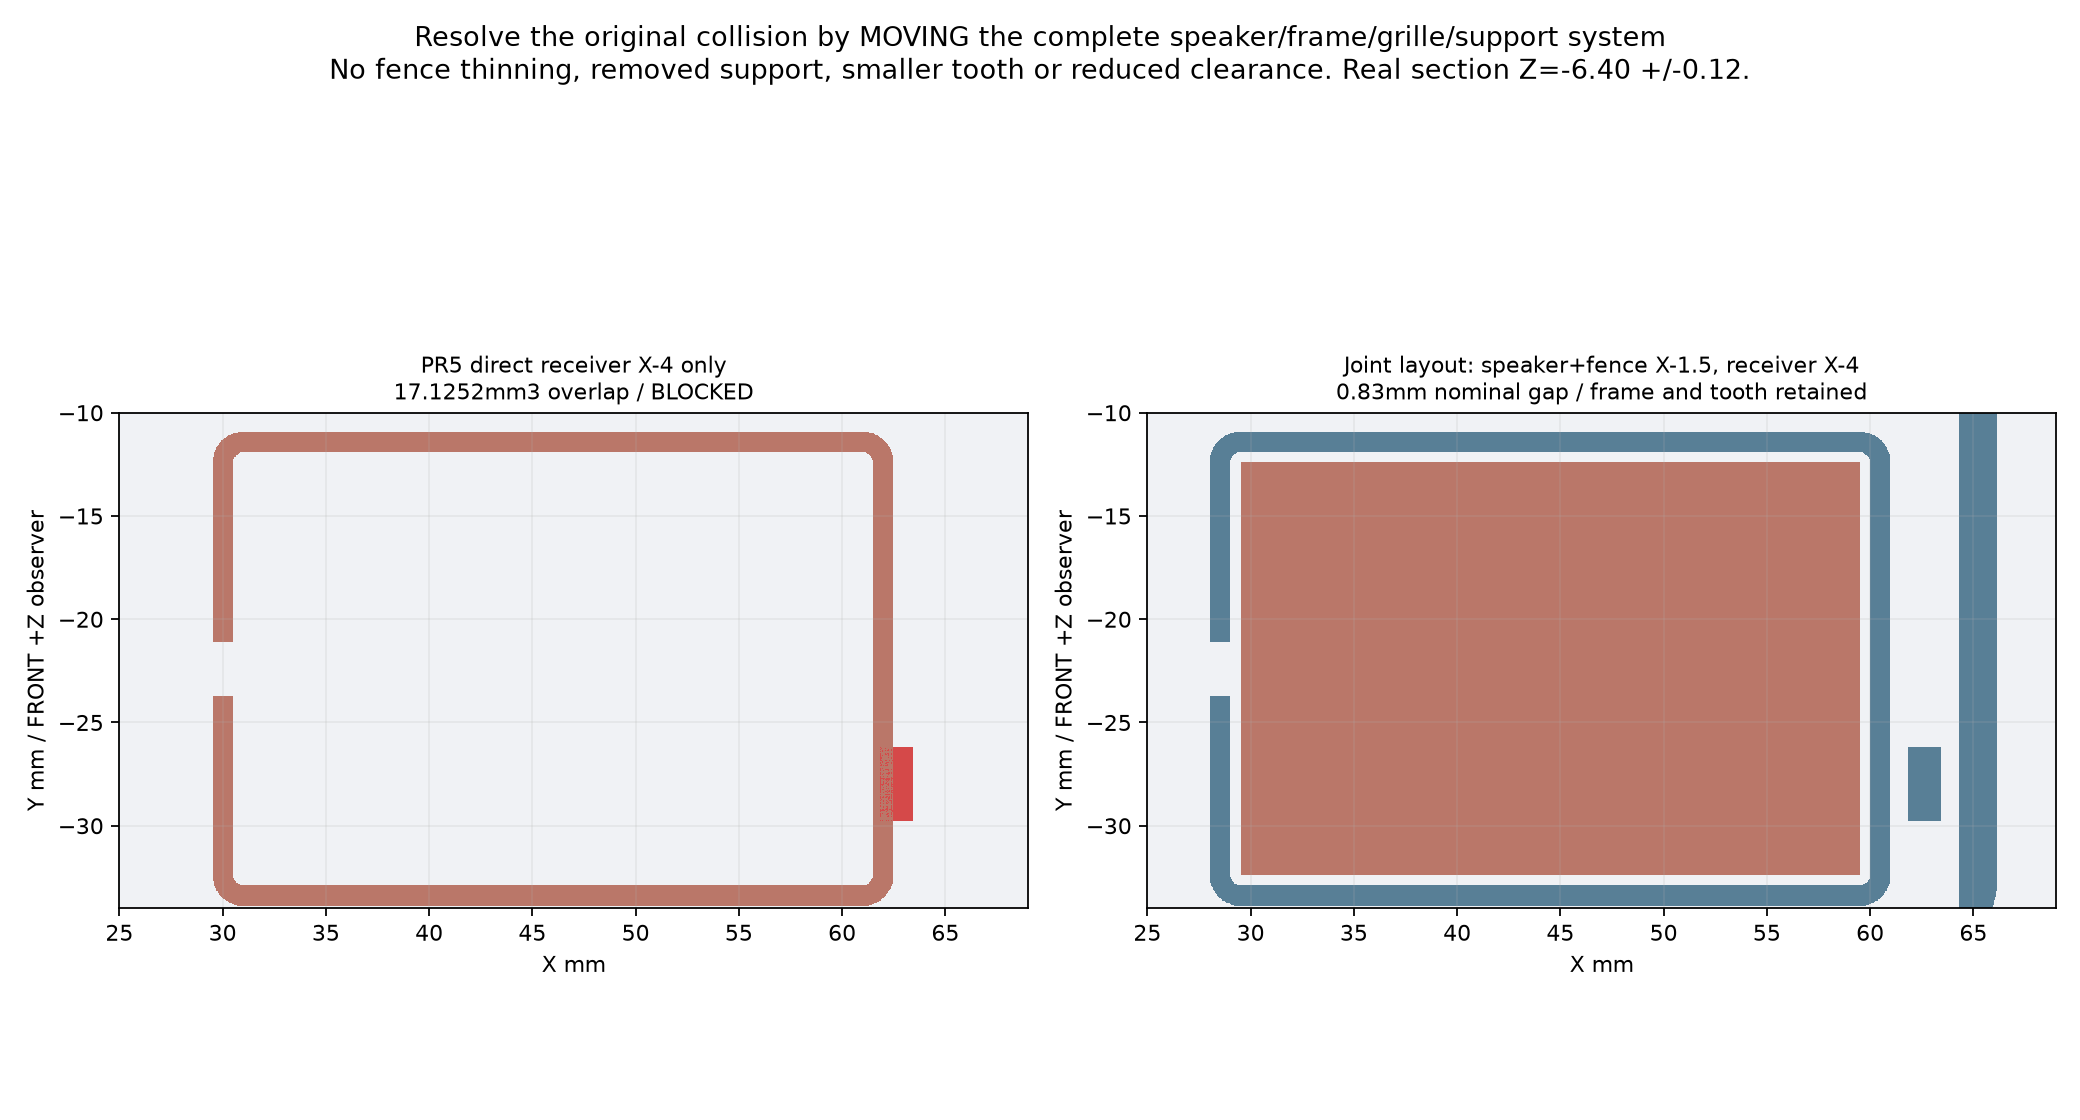
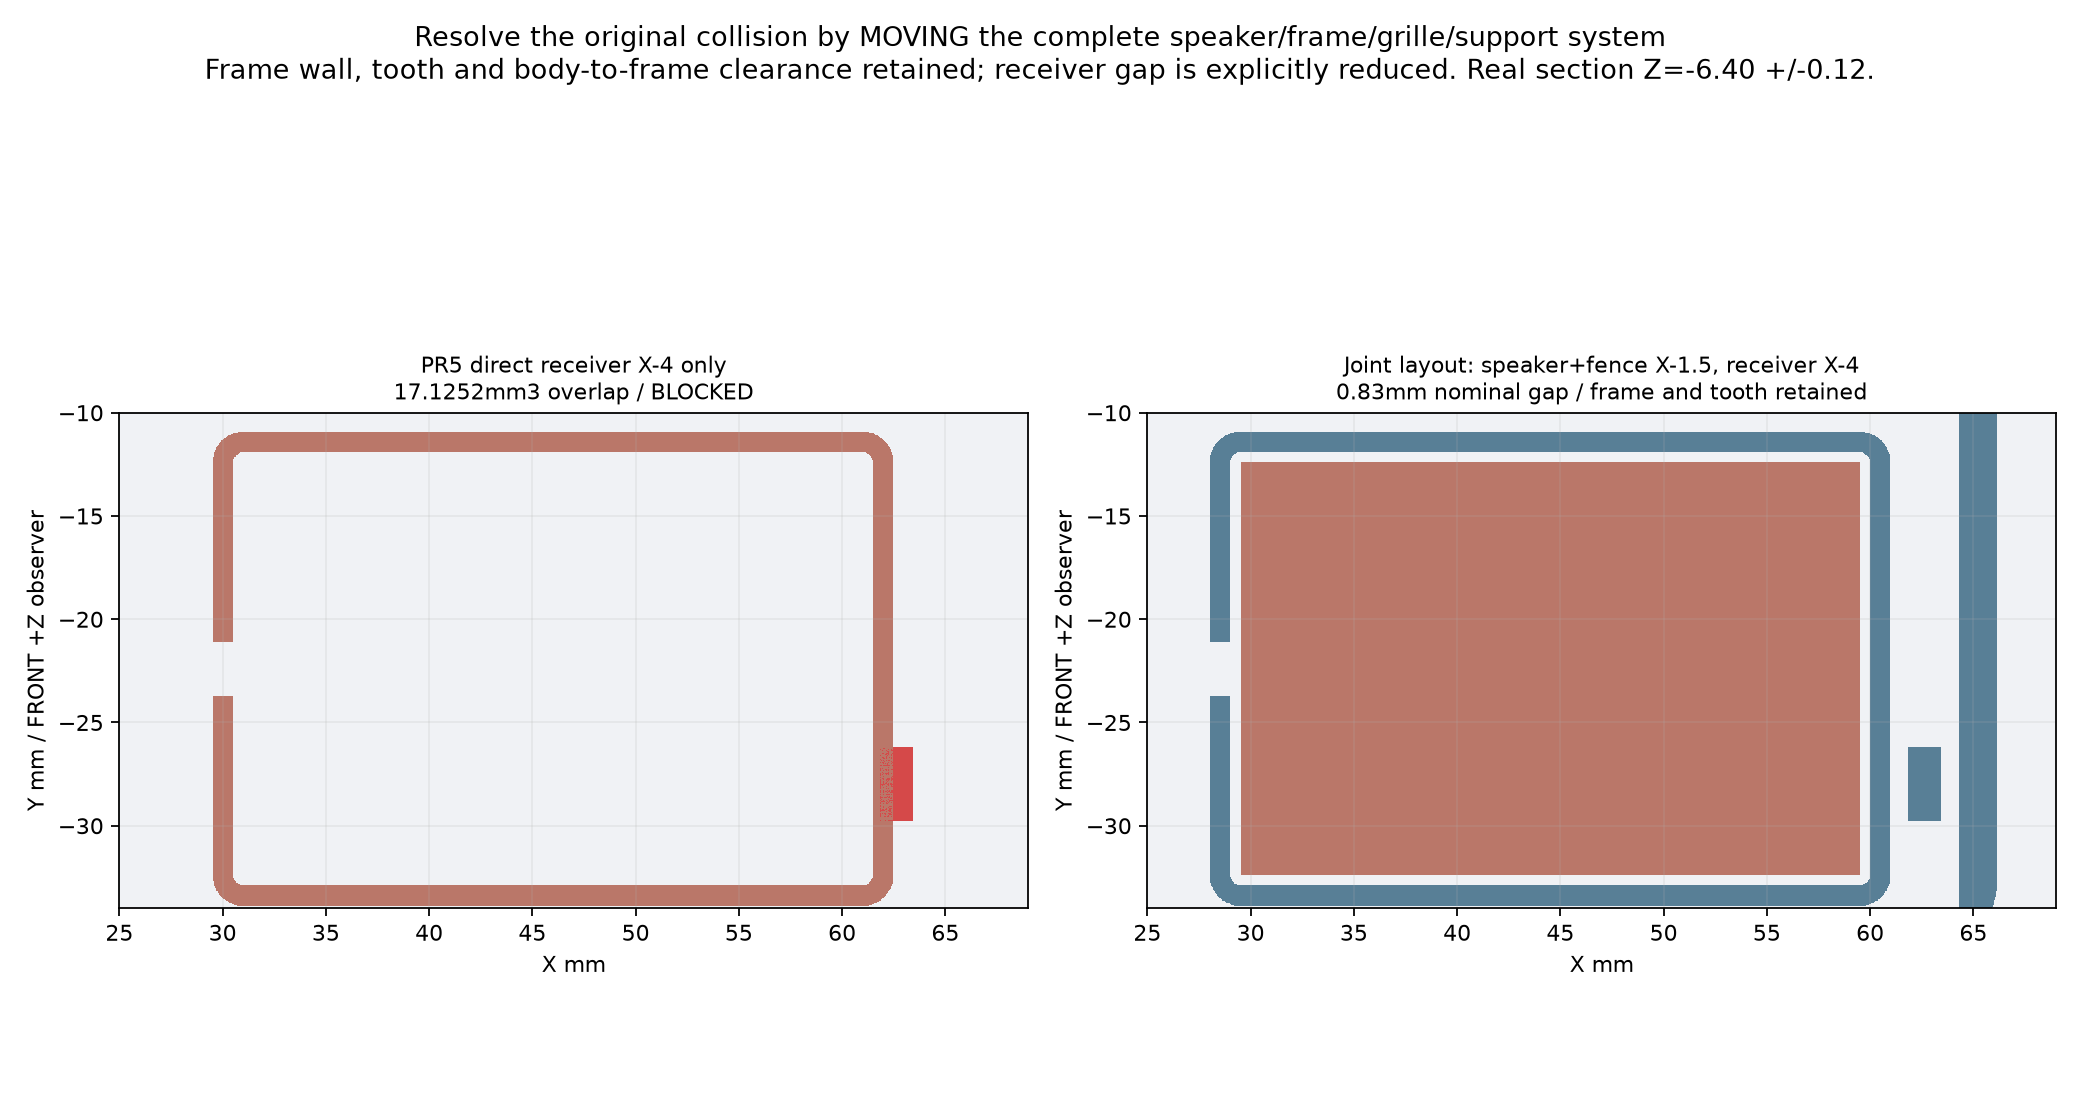
cad: verify downloaded 95.60mm assembly and record confirmed speaker socket

Changed region(s): [[0.125, 0.0312, 0.8438, 0.0938]]

diff --git a/scripts/verify-g-v1-95mm-download.py b/scripts/verify-g-v1-95mm-download.py
@@ -1,0 +1,89 @@
+#!/usr/bin/env python3
+"""Actual downloaded95.60 review package: placements, validity, raw STEP source.
+
+Uses the frozen task26 verifier's per-solid bounds/volume/face-count method.
+No SHA/checksum validation, FreeCAD GUI, or physical-function approval.
+"""
+import argparse,gc,json,zipfile,sys,subprocess
+from pathlib import Path
+from build123d import import_step
+ROOT=Path(__file__).resolve().parents[1]
+sys.path.insert(0,str(ROOT/'cad/t0'))
+from t0_reference import load
+
+def rows(shape):
+    result=[]
+    for index,s in enumerate(shape.solids()):
+        assert s.is_valid
+        b=s.bounding_box();result.append(dict(index=index,bounds=[*b.min,*b.max],volume=s.volume,faces=len(s.faces())))
+    return sorted(result,key=lambda r:tuple(round(v,4) for v in r['bounds'])+(round(r['volume'],4),r['faces']))
+def compare(a,b,raw_shapes=None,exported_shapes=None):
+    a=sorted(a,key=lambda r:tuple(round(v,4) for v in r['bounds'])+(round(r['volume'],4),r['faces']))
+    b=sorted(b,key=lambda r:tuple(round(v,4) for v in r['bounds'])+(round(r['volume'],4),r['faces']))
+    assert len(a)==len(b)
+    bd=max(abs(x-y) for e,o in zip(a,b) for x,y in zip(e['bounds'],o['bounds']))
+    vd=max(abs(e['volume']-o['volume'])/max(e['volume'],1e-9) for e,o in zip(a,b));faces=all(e['faces']==o['faces'] for e,o in zip(a,b))
+    assert bd<1e-5 and faces
+    native_checks=[]
+    if raw_shapes is None:
+        assert vd<1e-6
+    else:
+        from OCP.ShapeAnalysis import ShapeAnalysis_ShapeTolerance
+        for raw,exported in zip(a,b):
+            rel=abs(raw['volume']-exported['volume'])/max(raw['volume'],1e-9)
+            if rel<=1e-6:continue
+            x,y=raw_shapes[raw['index']],exported_shapes[exported['index']]
+            # No input geometry or tolerance is manually changed.
+            # Native BRep booleans determine material equivalence when the
+            # non-invariant scalar mass integral differs after STEP transfer.
+            forward=x-y;backward=y-x
+            fv,bv=forward.volume,backward.volume
+            assert not forward.solids() and not backward.solids() and abs(fv)<1e-9 and abs(bv)<1e-9
+            native_checks.append(dict(raw_solid_index=raw['index'],exported_solid_index=exported['index'],
+                raw_default_volume_mm3=raw['volume'],exported_default_volume_mm3=exported['volume'],default_relative_volume_difference=rel,
+                forward_difference_mm3=fv,reverse_difference_mm3=bv,
+                native_max_topological_tolerance_mm=ShapeAnalysis_ShapeTolerance().Tolerance(x.wrapped,1),
+                exported_max_topological_tolerance_mm=ShapeAnalysis_ShapeTolerance().Tolerance(y.wrapped,1)))
+    return dict(solids=len(a),maximum_per_solid_bounds_difference_mm=bd,maximum_per_solid_relative_volume_difference=vd,per_solid_face_counts_match=faces,
+        native_BRep_difference_checks_for_default_volume_discrepancies=native_checks,
+        interpretation='Strict scalar comparison for same-export groups. Raw-source mass discrepancies explicitly retained and checked by BOTH native-tolerance BRep cuts, without manually relaxing tolerance; native-tolerance equivalence, not a mathematical-zero or manufacturing precision guarantee.')
+def phase(name,dest,output):
+    if name=='full':
+        shape=import_step(dest/'assembly_complete.step');rr=rows(shape)
+        b=shape.bounding_box();result=dict(rows=rr,bounds=[*b.min,*b.max])
+    elif name=='groups':
+        observed=[];counts={}
+        for key in ['OfficialBoard_REAL_723','FrontShell_BOOT_RECT_BAT_L','RearShell_TWO_CLIPS','Four_M2_5_CANDIDATE_SCREWS','MEASURED_ACCESSORY_ENVELOPES_AND_CONDITIONAL_WIRES_KEEP_OUT']:
+            print('Read downloaded group',key,flush=True)
+            shape=import_step(dest/'viewer'/(key+'.step'));rr=rows(shape);counts[key]=len(rr);observed.extend(rr)
+            del shape;gc.collect()
+        result=dict(rows=observed,counts=counts)
+    elif name=='raw':
+        print('Read downloaded board and original official source',flush=True)
+        board=import_step(dest/'viewer/OfficialBoard_REAL_723.step')
+        parts,_,_=load(ROOT.parent/'ESP32-C5-Touch-LCD-2.8/dimensions/ESP32-C5-Touch-LCD-2.8.stp')
+        result=compare(rows(parts['ASSEMBLY']),rows(board),parts['ASSEMBLY'].solids(),board.solids())
+    output.write_text(json.dumps(result,indent=2)+'\n')
+def main():
+    if len(sys.argv)>1 and sys.argv[1]=='--phase':
+        phase(sys.argv[2],Path(sys.argv[3]),Path(sys.argv[4]));return
+    ap=argparse.ArgumentParser();ap.add_argument('downloaded_zip',type=Path);ap.add_argument('--output',type=Path,required=True);a=ap.parse_args()
+    dest=a.downloaded_zip.parent/'verified_95mm';dest.mkdir(exist_ok=True)
+    with zipfile.ZipFile(a.downloaded_zip) as z:entries=z.namelist();z.extractall(dest)
+    results={}
+    # Separate processes release OpenCascade STEP caches between large imports.
+    for name in ['full','groups','raw']:
+        path=dest/(name+'_verification.json')
+        print('Verify phase',name,flush=True)
+        subprocess.run([sys.executable,__file__,'--phase',name,str(dest),str(path)],check=True)
+        results[name]=json.loads(path.read_text())
+    expected=results['full']['rows'];bb=results['full']['bounds'];counts=results['groups']['counts']
+    assert len(expected)==739 and counts['OfficialBoard_REAL_723']==723
+    consistency=compare(expected,results['groups']['rows']);source=results['raw']
+    assert abs(bb[3]-bb[0]-95.6)<1e-5 and abs(bb[4]-bb[1]-77.86)<1e-5 and bb[5]-bb[2]<=12.4
+    result=dict(status='DOWNLOADED_95_60_ASSEMBLY_AND_RAW_SOURCE_VERIFIED',asset=a.downloaded_zip.name,downloaded_bytes=a.downloaded_zip.stat().st_size,
+        complete_valid_solids=739,component_valid_solids=counts,same_coordinate_group_consistency=consistency,downloaded_board_vs_original_official_STEP=source,
+        full_bounds_mm=bb,maximum_thickness_mm=bb[5]-bb[2],zip_entries=entries,
+        scope='Actual authorized ZIP download and STEP semantic checks; not FreeCAD GUI, strength, material, real harness or acoustic approval.')
+    a.output.write_text(json.dumps(result,indent=2)+'\n');print(result['status'],flush=True)
+if __name__=='__main__':main()

diff --git a/cad/t0/g_v1_95mm_drawings.py b/cad/t0/g_v1_95mm_drawings.py
@@ -30,16 +30,7 @@ def render(out,parts,old,m,b0,base,c0,c,cfg,r):
         ax.annotate('MIC1 candidate space',(27.3,1.395),(33,1),fontsize=8,arrowprops={'arrowstyle':'->'})
     fig.suptitle('RIGHT BAY / actual sectioned case+723-board BReps, measured accessory envelopes\nBattery complete29.49x42.26x7.61; speaker30x20x6.5. Dashed/omitted wiring is not real harness certification.')
     save(fig,out,'old_new_bay_same_scale_FRONT_cutaway')
-    fig,axs=plt.subplots(1,2,figsize=(13,7));slab=box([25,-34,-6.52,69,-10,-6.28])
-    oldfence=intersection(old['front'],box([29.4,-34,-8.2,62.6,-10.8,-.5001]));shifted=intersection(old['front'],box([65.7,-30,-9.5,67.45,-26,-1])).translate((-4,0,0))
-    items=[(oldfence,SPK),(shifted,'#d54949')]
-    panel(axs[0],[(section(s,slab),co) for s,co in items],[1,0,0],[0,1,0],[0,0,1],(25,69,-34,-10))
-    axs[0].set_title('PR5 direct receiver X-4 only\n17.1252mm3 overlap / BLOCKED',fontsize=10)
-    panel(axs[1],[(section(m['front'],slab),BLUE),(section(m['speaker'],slab),SPK)],[1,0,0],[0,1,0],[0,0,1],(25,69,-34,-10))
-    axs[1].set_title('Joint layout: speaker+fence X-1.5, receiver X-4\n0.83mm nominal gap / frame and tooth retained',fontsize=10)
-    for ax in axs:ax.set_xlabel('X mm');ax.set_ylabel('Y mm / FRONT +Z observer')
-    fig.suptitle('Resolve the original collision by MOVING the complete speaker/frame/grille/support system\nNo fence thinning, removed support, smaller tooth or reduced clearance. Real section Z=-6.40 +/-0.12.')
-    save(fig,out,'receiver_speaker_interference_resolved')
+    receiver_fence_view(out,old,m)
     fig,axs=plt.subplots(1,3,figsize=(14,7));y=c['clip_sites'][0]['y_mm'];slab=box([-30,y-.12,-12,71,y+.12,1])
     for ax,mm,cc,title in zip(axs[:2],[old,m],[c0,c],['Frozen lower latch','95.60 lower latch / identical translated geometry']):
         a=cc['clip_x_mm'][0]
@@ -88,3 +79,16 @@ def mic_wiring_view(out,parts,m,base,r):
     axs[1].legend(fontsize=8,loc='lower left');axs[1].set_title('FRONT +Z wiring placement / USB +Y TOP\nLowerMX1=SPK user confirmed; upperBAT allocation pending\nUser40mm fit accepted; staged endpoint/service slack pending',fontsize=9);axs[1].set_xlabel('X mm');axs[1].set_ylabel('Y mm')
     fig.suptitle('MIC SPACE AND SERVICE ROUTING / exact checked paths, not supplier harness CAD\nOld79.46mm proxy is not used as evidence against the user-tested40mm lead.')
     save(fig,out,'MIC_and_conditional_wiring')
+
+
+def receiver_fence_view(out,old,m):
+    fig,axs=plt.subplots(1,2,figsize=(13,7));slab=box([25,-34,-6.52,69,-10,-6.28])
+    oldfence=intersection(old['front'],box([29.4,-34,-8.2,62.6,-10.8,-.5001]));shifted=intersection(old['front'],box([65.7,-30,-9.5,67.45,-26,-1])).translate((-4,0,0))
+    items=[(oldfence,SPK),(shifted,'#d54949')]
+    panel(axs[0],[(section(s,slab),co) for s,co in items],[1,0,0],[0,1,0],[0,0,1],(25,69,-34,-10))
+    axs[0].set_title('PR5 direct receiver X-4 only\n17.1252mm3 overlap / BLOCKED',fontsize=10)
+    panel(axs[1],[(section(m['front'],slab),BLUE),(section(m['speaker'],slab),SPK)],[1,0,0],[0,1,0],[0,0,1],(25,69,-34,-10))
+    axs[1].set_title('Joint layout: speaker+fence X-1.5, receiver X-4\n0.83mm nominal gap / frame and tooth retained',fontsize=10)
+    for ax in axs:ax.set_xlabel('X mm');ax.set_ylabel('Y mm / FRONT +Z observer')
+    fig.suptitle('Resolve the original collision by MOVING the complete speaker/frame/grille/support system\nFrame wall, tooth and body-to-frame clearance retained; receiver gap is explicitly reduced. Real section Z=-6.40 +/-0.12.')
+    save(fig,out,'receiver_speaker_interference_resolved')

diff --git a/cad/t0/generate_g_v1_95mm.py b/cad/t0/generate_g_v1_95mm.py
@@ -29,6 +29,7 @@ def main():
     OUT.mkdir(parents=True,exist_ok=True);build=ROOT/'build/g-v1-95mm';build.mkdir(parents=True,exist_ok=True)
     cfg=read('g-v1-95mm-layout.json');kq=read('t0-g-v1-boot-rect.json');c0=read('t0-g-v1-closure.json')
     p=read('t0-g-parameters.json');b0=read('t0-a-parameters.json');b0.update(p['layout_overrides'])
+    cfg['width_reduction_mm']=b0['width_mm']-cfg['target_width_mm']
     print('Import RAW official STEP / all723 real solids / cumulative placements / Rz180',flush=True)
     parts,mounts,_=load(ROOT.parent/'ESP32-C5-Touch-LCD-2.8/dimensions/ESP32-C5-Touch-LCD-2.8.stp')
     search=study(parts,OUT,cfg);assert next(row for row in search['rows'] if row['speaker_shift_x_mm']==search['selected_shift_x_mm'])['receiver_fence_overlap_mm3']<.001
@@ -58,6 +59,7 @@ def main():
     comparisons['lower_root_neighborhood_delta_mm3']=delta(intersection(m['rear'].translate((d,0,0)),rootzone),intersection(old['rear'],rootzone))
     comparisons['screw_seat_deltas_mm3']=[delta(a,b) for a,b in zip(m['seats'],old['seats'])]
     comparisons['screw_deltas_mm3']=[delta(a,b) for a,b in zip(m['screws'],old['screws'])]
+    assert all(v<.001 for key in ['screw_seat_deltas_mm3','screw_deltas_mm3'] for v in comparisons[key])
     for n in ['all_front_material_X_below_25_9_delta_mm3','lower_free_latch_translated_back_delta_mm3','upper_free_latch_delta_mm3','lower_root_neighborhood_delta_mm3']:
         assert comparisons[n]<.001,(n,comparisons[n])
     report=dict(status='CHECKING',print_approved=False,mechanical_baseline='ee8ec9d',coordinates='USB+Y / FRONT+Z / REAR-Z / native keys LEFT-X',
@@ -91,7 +93,7 @@ def main():
     reread=import_step(build/'assembly_complete.step');ss=reread.solids();bb=bounds(reread)
     report['assembly_export']=dict(solids=len(ss),valid_solids=sum(s.is_valid for s in ss),bounds_mm=bb,maximum_thickness_mm=bb[5]-bb[2])
     assert len(ss)==report['assembly_export']['valid_solids']==739
-    assert abs(bb[3]-bb[0]-95.6)<1e-5 and abs(bb[4]-bb[1]-77.86)<1e-5 and bb[5]-bb[2]<=12.400001
+    assert abs(bb[3]-bb[0]-cfg['target_width_mm'])<1e-5 and abs(bb[4]-bb[1]-77.86)<1e-5 and bb[5]-bb[2]<=12.400001
     del reread,ss;gc.collect()
     lightparts=[m['front'],m['rear'],*m['screws'],parts['PCB_BOARD'],*mounts]
     for n in ['DISPLAY','J2_USB_SIDE','TF','KEY1','KEY2','KEY3','MIC1','MX0','MX1']:
@@ -106,5 +108,20 @@ def main():
     export_step(Compound(m['speaker'].wrapped,label='Measured_Speaker_Body'),viewer/'Speaker.step')
     shutil.copy2(ROOT/'cad/t0/view_g_v1_95mm_freecad.py',viewer/'view_g_v1_95mm_freecad.py')
     (OUT/'checks.json').write_text(json.dumps(report,indent=2)+'\n')
+    package_review(OUT,build)
     print(report['status']+'; NOT PRINT APPROVED',flush=True)
+
+def package_review(out,build):
+    archive=build/'g-v1-95mm-layout-review-20261020.zip'
+    with zipfile.ZipFile(archive,'w',zipfile.ZIP_DEFLATED) as z:
+        z.write(build/'assembly_complete.step','assembly_complete.step')
+        for f in sorted((build/'viewer').glob('*')):
+            if f.is_file():z.write(f,'viewer/'+f.name)
+        for f in sorted(out.iterdir()):
+            if f.is_file() and f.name!='download_verification.json':z.write(f,'report/'+f.name)
+        z.write(ROOT/'docs/31_g_v1_95mm_layout_optimization.md','REPORT.md')
+        z.write(ROOT/'deliverables/t0-g-v1-boot-rect/front_shell.step','baseline_ee8ec9d/front_shell.step')
+        z.write(ROOT/'deliverables/t0-g-v1/rear_shell.step','baseline_ee8ec9d/rear_shell.step')
+    return archive
+
 if __name__=='__main__':main()

diff --git a/cad/t0/g_v1_95mm_wiring.py b/cad/t0/g_v1_95mm_wiring.py
@@ -1,6 +1,6 @@
 """Conditional bundle clearances, separate from user's successful 40mm fit test.
 
-Upper/lower allocation remains a silkscreen check, not inferred from STEP names.
+Lower speaker socket confirmed by user; upper battery/plug details remain checks.
 No route length from the obsolete79.46mm proxy is used as a failure criterion.
 """
 from build123d import FilletPolyline,Plane,Circle,sweep

diff --git a/README.md b/README.md
@@ -22,8 +22,8 @@
 | 实体按键 | **G-V1：** BAT_PWR 为前壳一体 L 形 PA12 弹片，BOOT 为前壳一体圆角矩形弹片，RESET Ø2.2mm 卡针孔；不新增独立键帽或额外开关 | 真实触发行程、按力与累积公差下触达尚待实物；BOOT 可复用为应用键 |
 | USB-C | 直接保留原生插口，不使用延长件 | 前提为顶部接口插拔空间满足 |
 | 麦克风 | 唯一原厂 MIC1，优先短直声路；T0 未盲目开孔 | 进声方向/PCB 声学孔及装壳录音待核，ES8311 是 codec |
-| 扬声器 | T0 改为右侧扩展仓下部、FRONT 正面格栅 | 30×20×6.8mm 临时包络，出声口/端子待实测 |
-| 电池 | 3.7V MX1.25 接口，容量、长宽厚、保护及极性**待客服答复** | 未取得最终电池尺寸前不得锁定厚度 |
+| 扬声器 | G-V1右侧扩展仓下部，FRONT正面出声 | 实测主体30×20×6.5mm、约40mm线已实摆可用；下端MX1为SPK已由用户确认，新偏移位置及维护仍待验 |
+| 电池 | 用户确认完整组件29.49×42.26×7.61mm | 不另叠保护板厚度；保留膨胀/绝缘/公差和出线余量，极性及最终固定待验证 |
 | 外壳 | **G-V1 候选：** 深前壳、齐平屏幕、两浅卡扣后盖、四颗候选 M2.5×4 机螺丝从后方固定原厂 PCB 金属安装件 | 99.60×77.86×12.3695mm 为名义CAD包络；MJF PA12 DFM、声孔及实物配合仍待确认 |
 
 ### V2（明确后置）
@@ -96,3 +96,7 @@ T0 D 仿 AI Passport 的一次局部短齿/浅窝研究见 [D 闸门报告](docs
 T0 E 采用三处原 A PCB 夹位与四浅窝，完成名义装入/止退验证和短齿整壳，见 [E 装配报告](docs/17_t0_e_three_clip_assembly.md) 及 [模型/图纸](deliverables/t0-e/README.md)。12.4mm 名义完整包络不等于 PA12 制造或实物功能通过；等待复审，不合并、不打印。
 
 T0 G 与 E 并列保留：深前壳、屏幕下沉0.5、四颗原厂位 M2.5 锁后盖、四隐藏短舌，完整名义包络12.9mm。见 [G 装配与风险报告](docs/19_t0_g_recessed_assembly.md) 及 [模型、剖面、E/G 同尺度对照](deliverables/t0-g/README.md)。**定位容差未通过**：螺孔0.15游隙可耗尽侧键停靠约0.074mm间隙；0.8mm螺钉座、薄片保持拆卸亦未获实物/PA12放行。不合并、不打印。
+
+## G-V1 95.60mm布局候选（2026-10-20）
+
+[缩宽4mm的布局、承力对照与完整装配报告](docs/31_g_v1_95mm_layout_optimization.md) · [新模型、剖面和下载](deliverables/g-v1-95mm/README.md)。完整名义包络95.60×77.86×12.369521mm；结论CONDITIONAL，保留原按键/制造/实物风险，不批准打印。冻结机械基线仍为ee8ec9d，旧模型与[PR #5评估](https://github.com/Gadil123/esp32-design/pull/5)保留。

diff --git a/deliverables/g-v1-95mm/README.md b/deliverables/g-v1-95mm/README.md
@@ -27,7 +27,7 @@ gh release download t0-cad-review-20261016-9ec1022 \
   --dir ./g-v1-95mm-review
 ```
 
-ZIP含 `assembly_complete.step`、同坐标分组`viewer/`、原ee8ec9d壳体对照、新壳STEP/STL和检查/剖面。下载验证另见 `download_verification.json`（在PR中，不作为ZIP几何认证）。
+ZIP含 `assembly_complete.step`、同坐标分组`viewer/`、原ee8ec9d壳体对照、新壳STEP/STL和检查/剖面。下载验证另见 `download_verification.json`（在PR中，不作为ZIP几何认证）。ZIP是本轮模型交付快照，最新图注和审查说明以本PR内报告31及图片为准；此后的说明修订未改动模型几何。
 
 FreeCAD可直接打开完整STEP；或解压后在桌面Python控制台执行：
 
@@ -41,3 +41,5 @@ assembled()
 按五组显隐检查；`Battery.step`和`Speaker.step`是单独查看用，不要与包含它们的完整配件组重复计数。实际拆卸路径及其限制以报告31和JSON为准。FreeCAD GUI未在服务器执行；STEP经OCP真实回读，脚本检查Python语法，未声称FreeCAD GUI验收。
 
 旧冻结前/后壳、E和PR #5保留。原按键不利公差失败、实际按力/行程、PA12薄特征、螺丝扭矩、真实线束服务与收音门槛均未关闭。
+
+命令结束后以`checks.json`状态为准；CONDITIONAL不等于制造或真实功能PASS。
